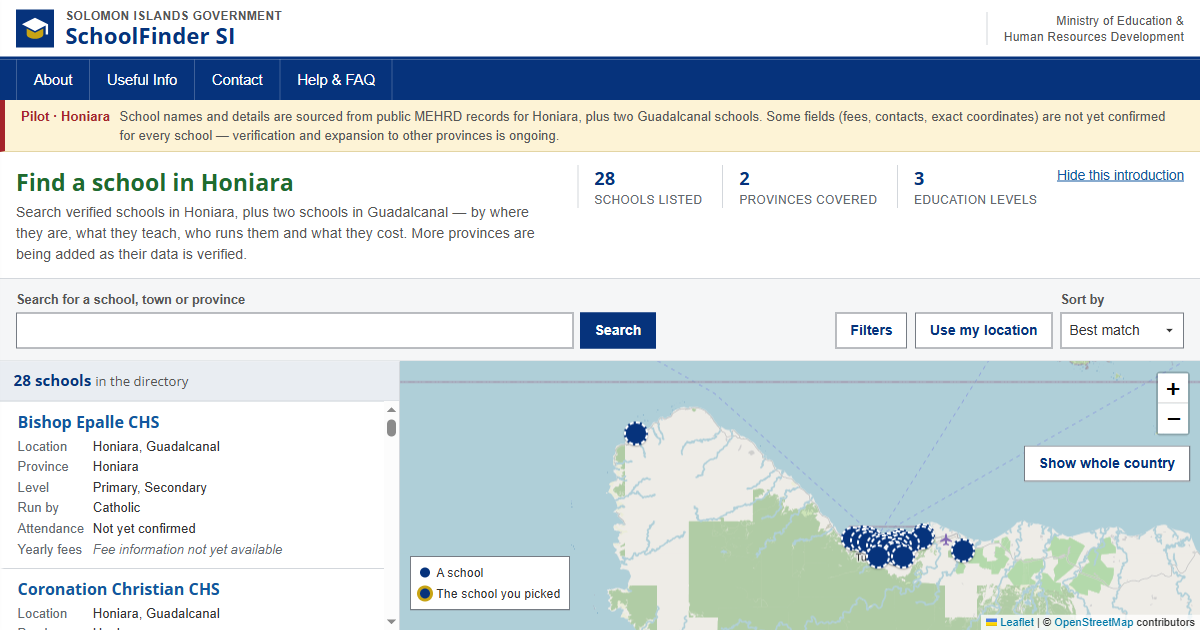
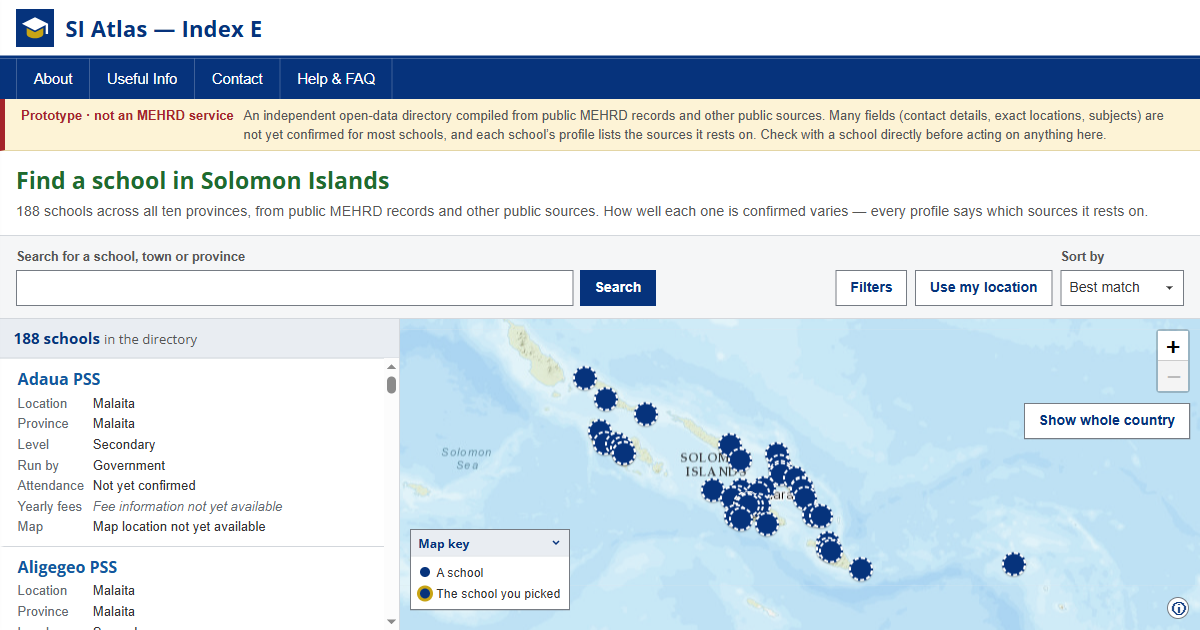
Regenerate the Index E share image from the current page (META-1)
The og/twitter image was a screenshot of the old "SchoolFinder SI" build:
a "Solomon Islands Government" line and a Ministry of Education subtitle in
the masthead (the implied endorsement the README says was removed), a
"Pilot · Honiara" notice, a 28-school stats widget and the old tiles. Every
link preview of Index E showed it.

Regenerated at 1200x630 with headless Chromium from the current page — the
plain "SI Atlas — Index E" masthead, the national heading and notice, the
list and the whole-country map. Alt text updated to match.

diff --git a/index-e/index.html b/index-e/index.html
@@ -19,13 +19,13 @@
 <meta property="og:image" content="https://reversalredgarnet.github.io/SI-Atlas/index-e/assets/og-image.png">
 <meta property="og:image:width" content="1200">
 <meta property="og:image:height" content="630">
-<meta property="og:image:alt" content="The SI Atlas — Index E directory: a list of schools beside a map of Solomon Islands with school markers.">
+<meta property="og:image:alt" content="The SI Atlas — Index E directory: a search box above a list of schools beside a map of Solomon Islands with school markers.">
 
 <meta name="twitter:card" content="summary_large_image">
 <meta name="twitter:title" content="SI Atlas — Index E: Find a school in Solomon Islands">
 <meta name="twitter:description" content="Search schools across all ten provinces of Solomon Islands by place, school level and who runs them. Compiled from public MEHRD records and other public sources, with the sources listed on every school's profile.">
 <meta name="twitter:image" content="https://reversalredgarnet.github.io/SI-Atlas/index-e/assets/og-image.png">
-<meta name="twitter:image:alt" content="The SI Atlas — Index E directory: a list of schools beside a map of Solomon Islands with school markers.">
+<meta name="twitter:image:alt" content="The SI Atlas — Index E directory: a search box above a list of schools beside a map of Solomon Islands with school markers.">
 
 <link rel="preconnect" href="https://fonts.googleapis.com">
 <link rel="preconnect" href="https://fonts.gstatic.com" crossorigin>
